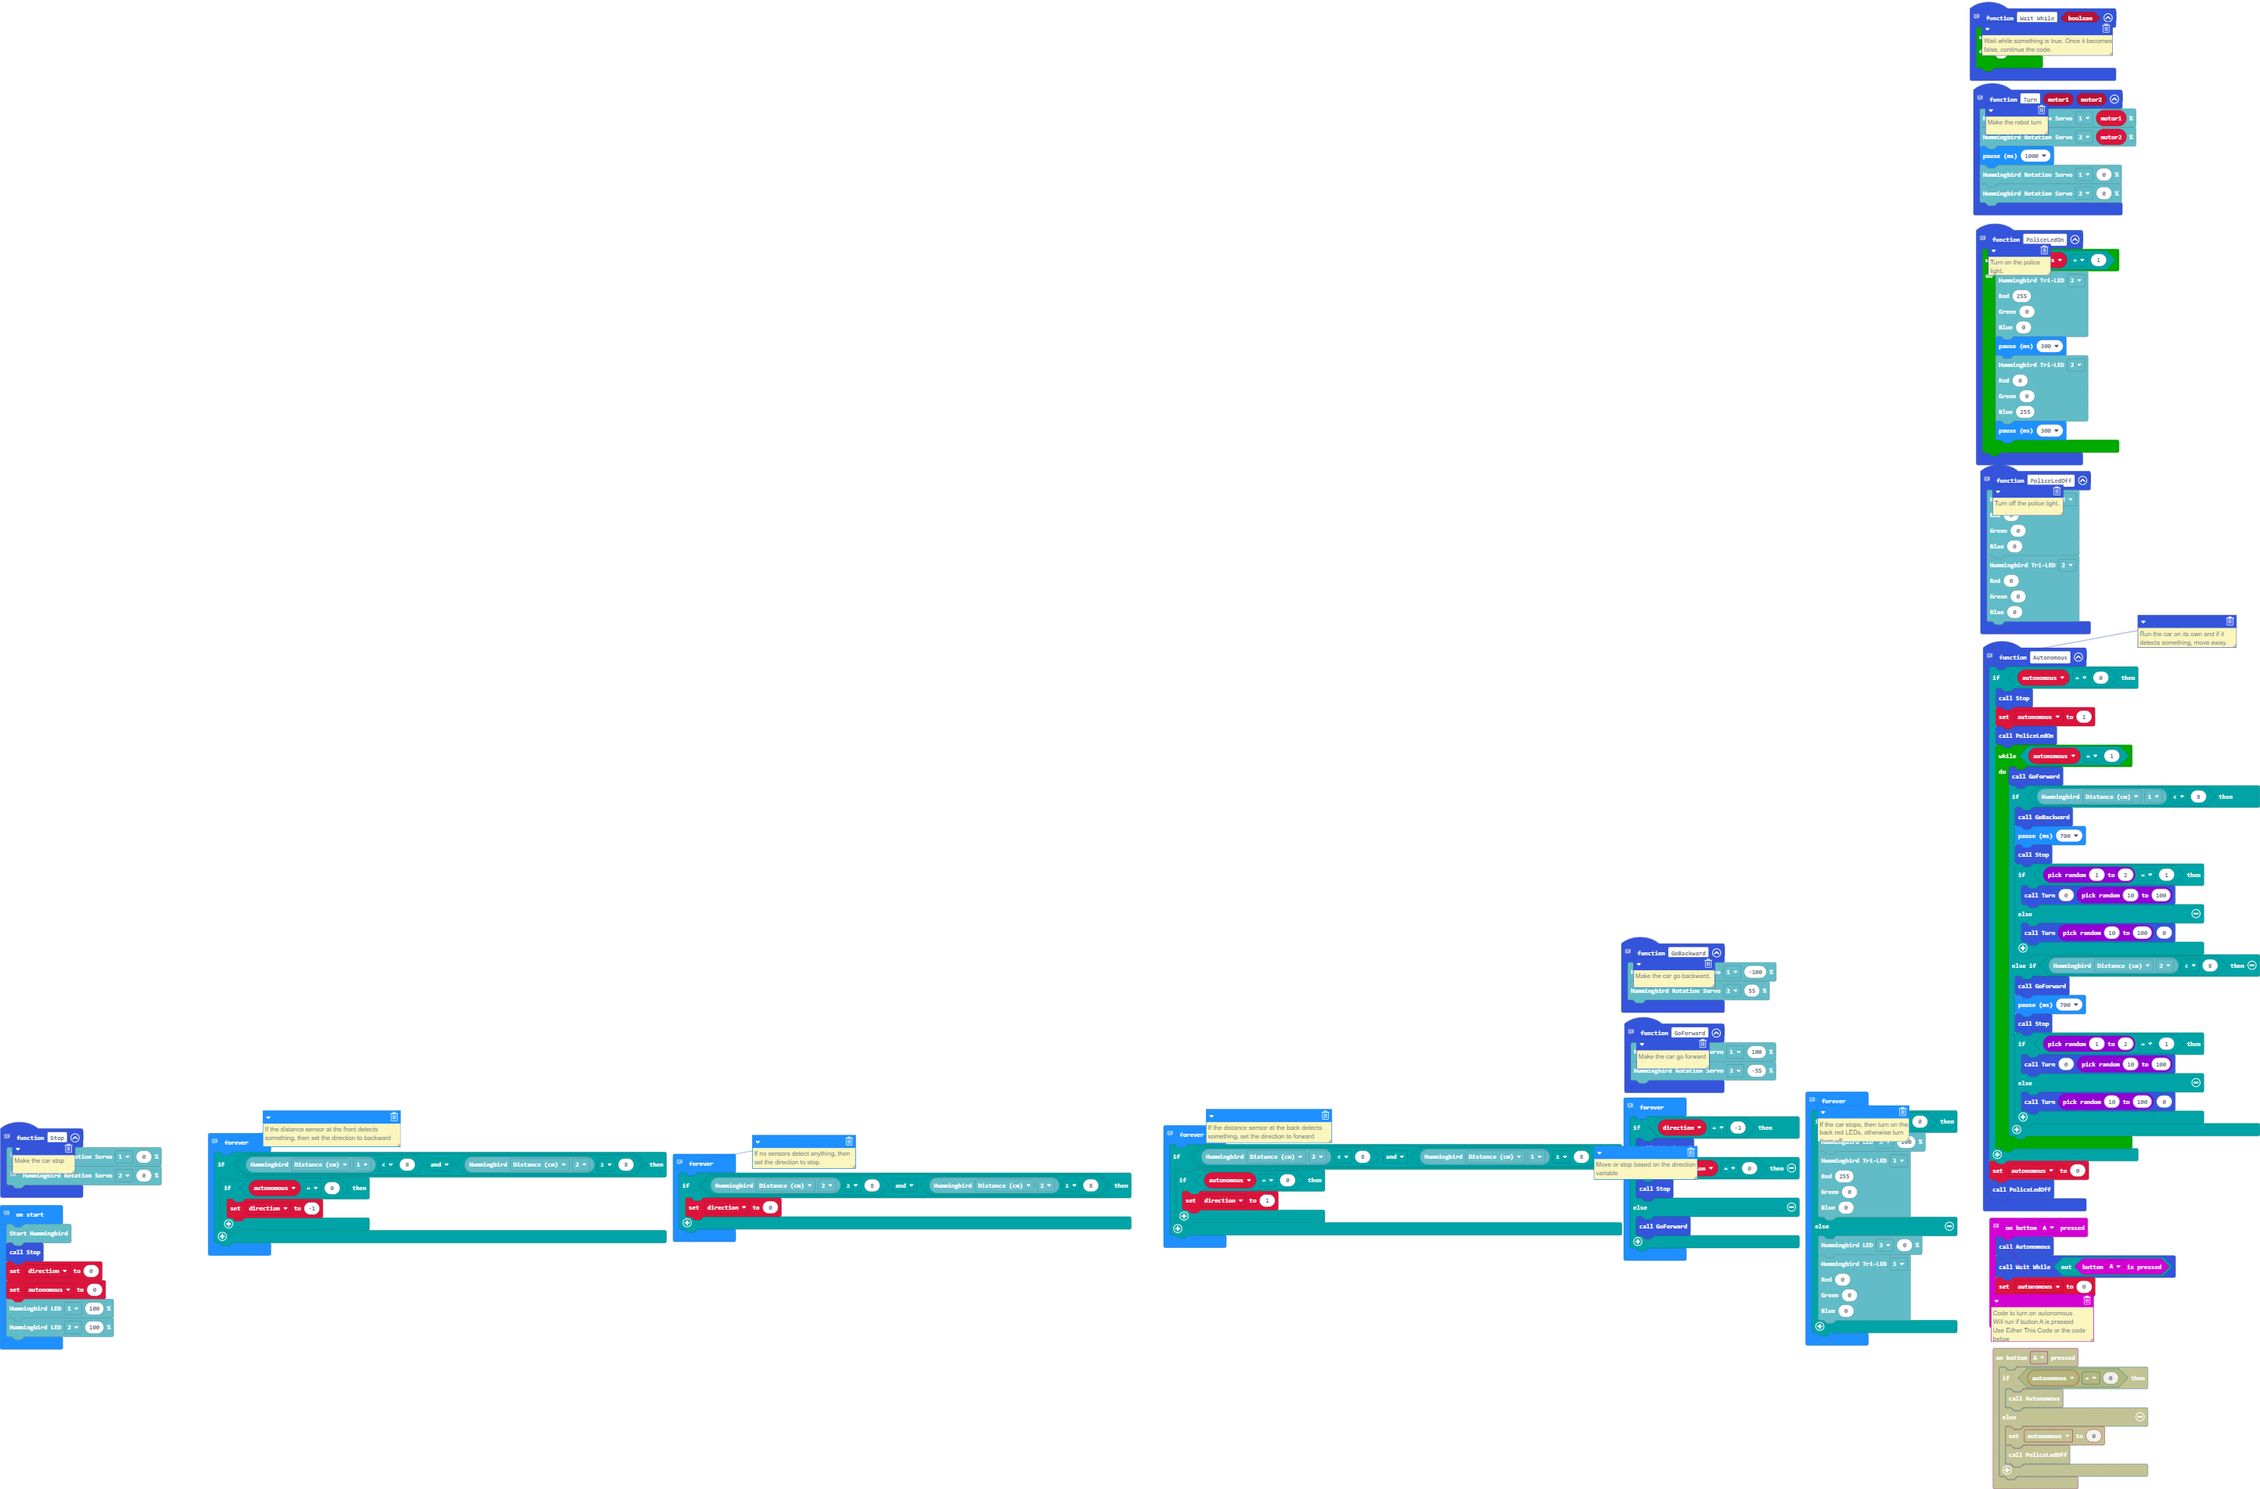
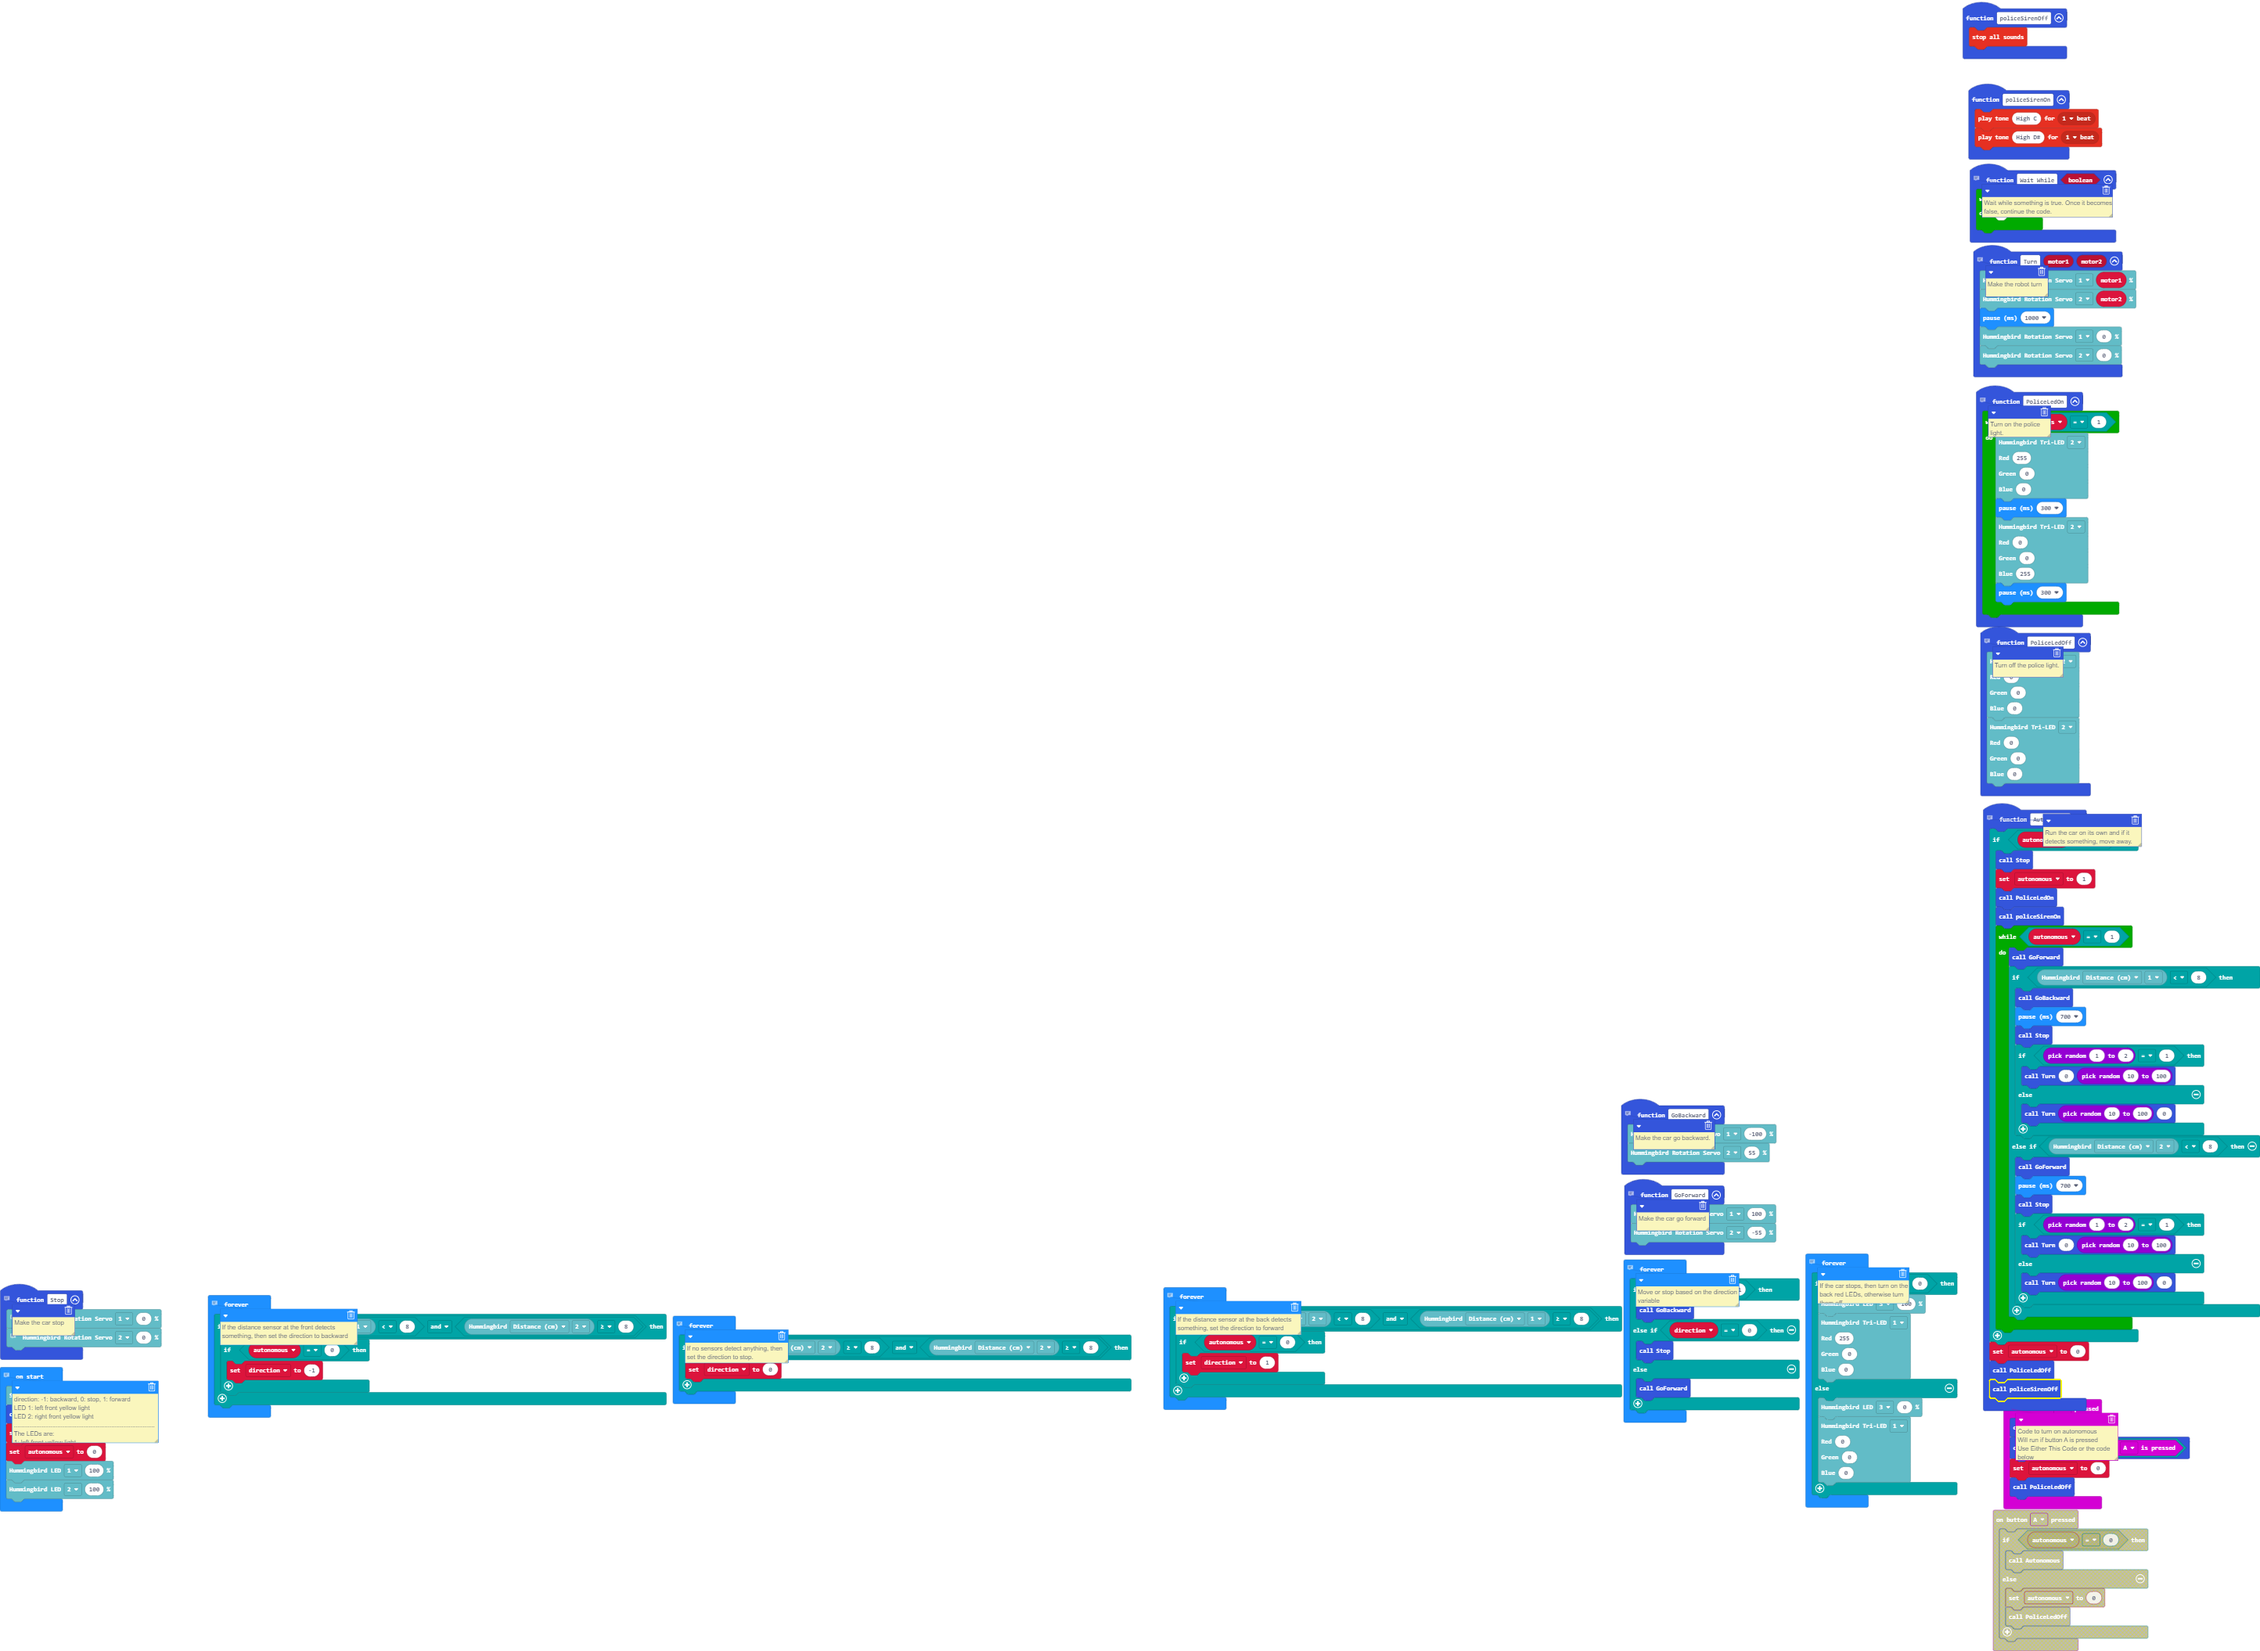
Police Siren

Changed region(s): [[0.0, 0.0, 1.0, 1.0]]

diff --git a/main.ts b/main.ts
@@ -66,6 +66,7 @@ function Autonomous () {
         Stop()
         autonomous = 1
         PoliceLedOn()
+        policeSirenOn()
         while (autonomous == 1) {
             GoForward()
             if (hummingbird.getSensor(SensorType.Distance, ThreePort.One) < 8) {
@@ -91,6 +92,14 @@ function Autonomous () {
     }
     autonomous = 0
     PoliceLedOff()
+    policeSirenOff()
+}
+function policeSirenOn () {
+    music.playTone(523, music.beat(BeatFraction.Whole))
+    music.playTone(622, music.beat(BeatFraction.Whole))
+}
+function policeSirenOff () {
+    music.stopAllSounds()
 }
 // Make the car go backward.
 function GoBackward () {
